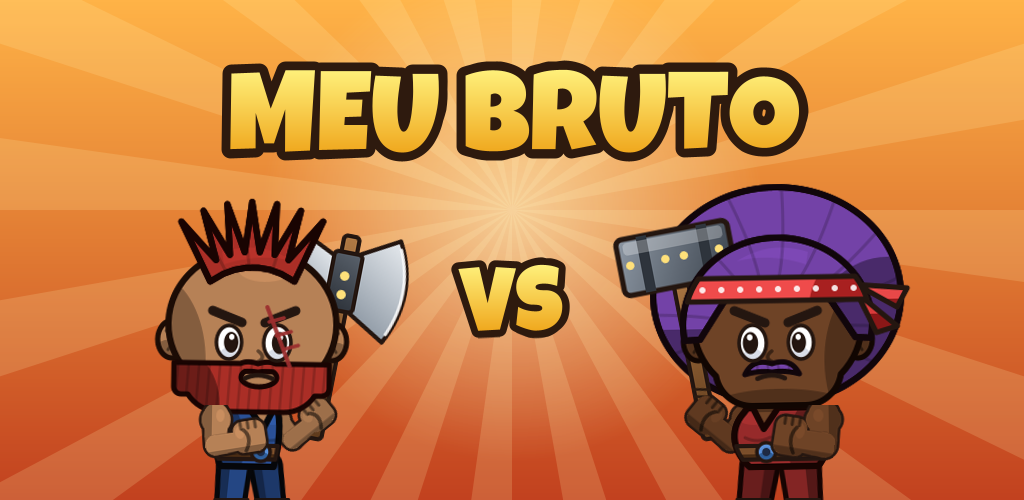
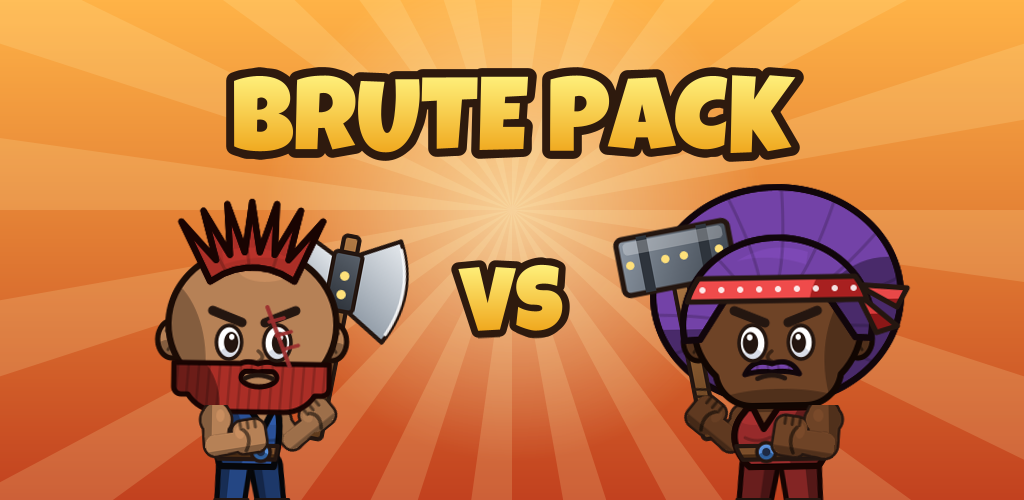
Brute Pack: novo nome na página de partilha

Changed region(s): [[0.2188, 0.12, 0.8125, 0.33]]

diff --git a/app/meubruto/index.html b/app/meubruto/index.html
@@ -3,12 +3,12 @@
 <head>
 <meta charset="UTF-8">
 <meta name="viewport" content="width=device-width, initial-scale=1">
-<title>Meu Bruto</title>
-<meta name="description" content="Desafia os teus amigos no Meu Bruto: cria o teu Bruto, treina-o e põe-no a lutar.">
+<title>Brute Pack</title>
+<meta name="description" content="Desafia os teus amigos no Brute Pack: cria o teu Bruto, treina-o e põe-no a lutar.">
 <!-- Pré-visualização no WhatsApp, Messenger, etc. -->
 <meta property="og:type" content="website">
-<meta property="og:site_name" content="Meu Bruto">
-<meta property="og:title" content="Desafio no Meu Bruto!">
+<meta property="og:site_name" content="Brute Pack">
+<meta property="og:title" content="Desafio no Brute Pack!">
 <meta property="og:description" content="Toca para abrir o desafio no jogo.">
 <meta property="og:image" content="https://jetmobdev.github.io/app/meubruto/partilha.png">
 <meta property="og:image:width" content="1024">
@@ -42,9 +42,9 @@
 </head>
 <body>
 <main>
-  <img class="hero" src="partilha.png" alt="Meu Bruto" width="1024" height="500">
+  <img class="hero" src="partilha.png" alt="Brute Pack" width="1024" height="500">
   <section class="card">
-    <h1 id="title">Meu Bruto</h1>
+    <h1 id="title">Brute Pack</h1>
     <p id="text">Cria o teu Bruto, treina-o e põe-no a lutar contra os teus amigos.</p>
     <div id="codeBox" class="hidden"><span class="code" id="code"></span></div>
     <a class="btn" id="open" href="#">Abrir no jogo</a>
